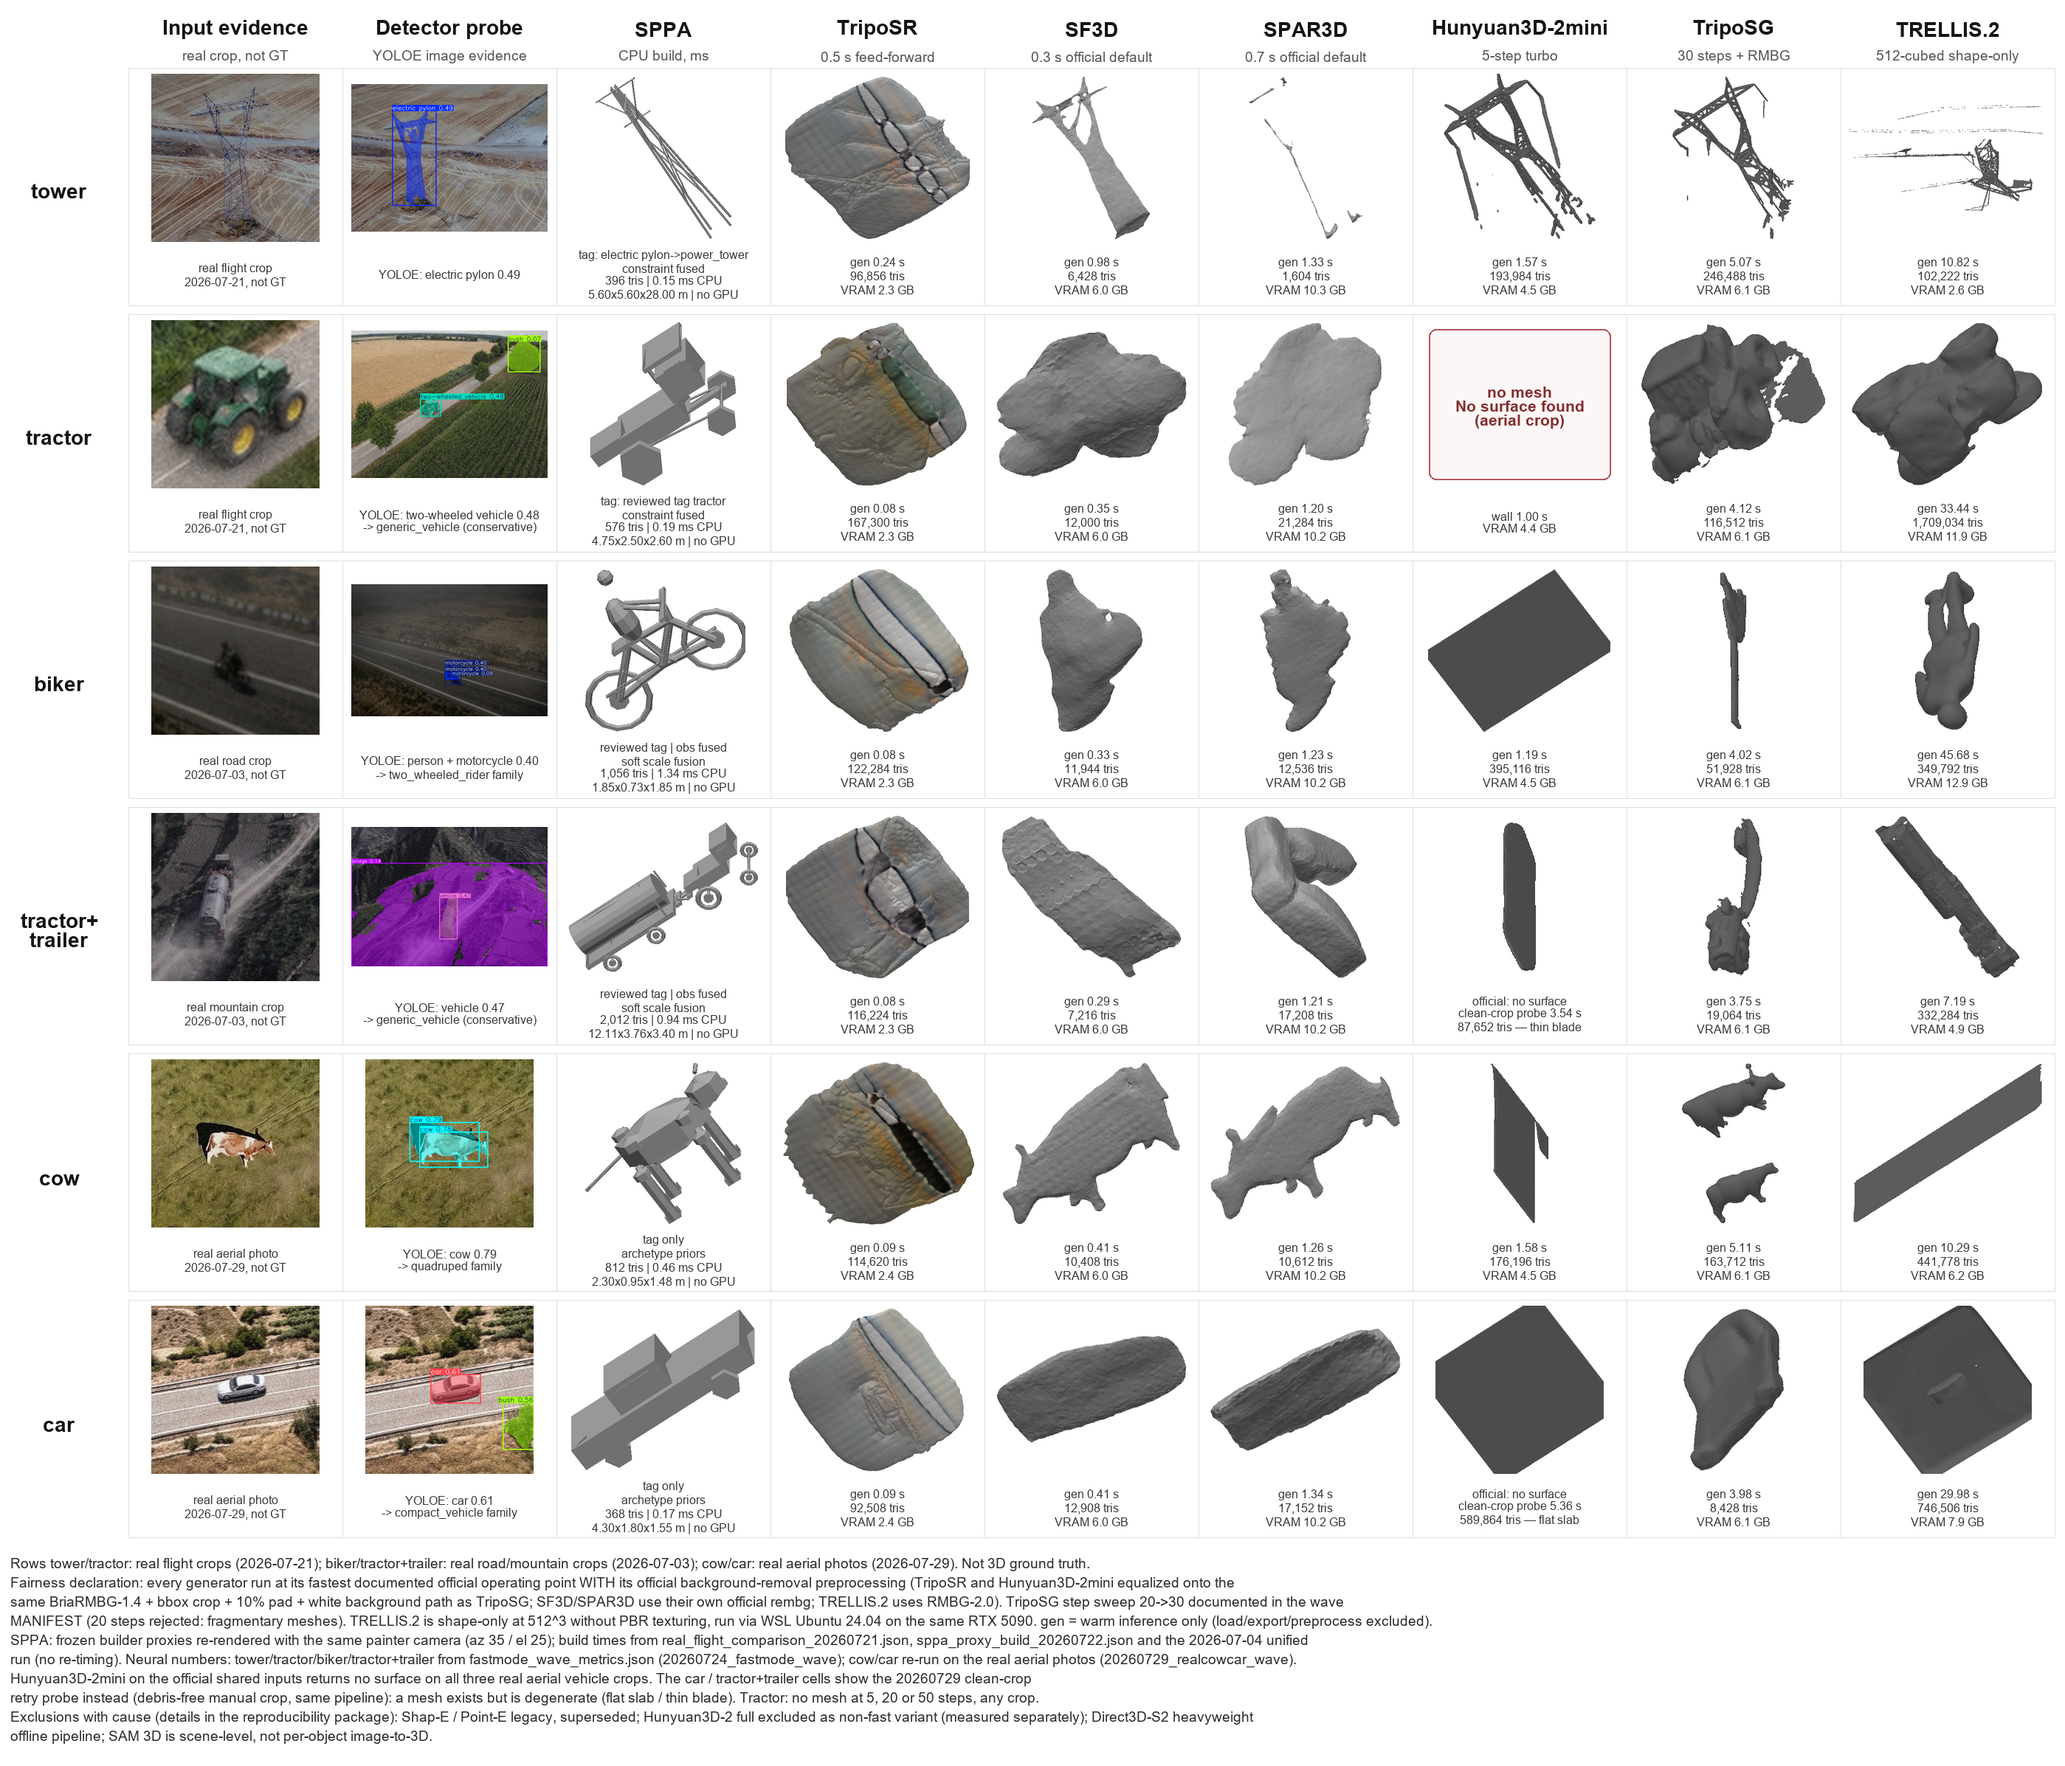
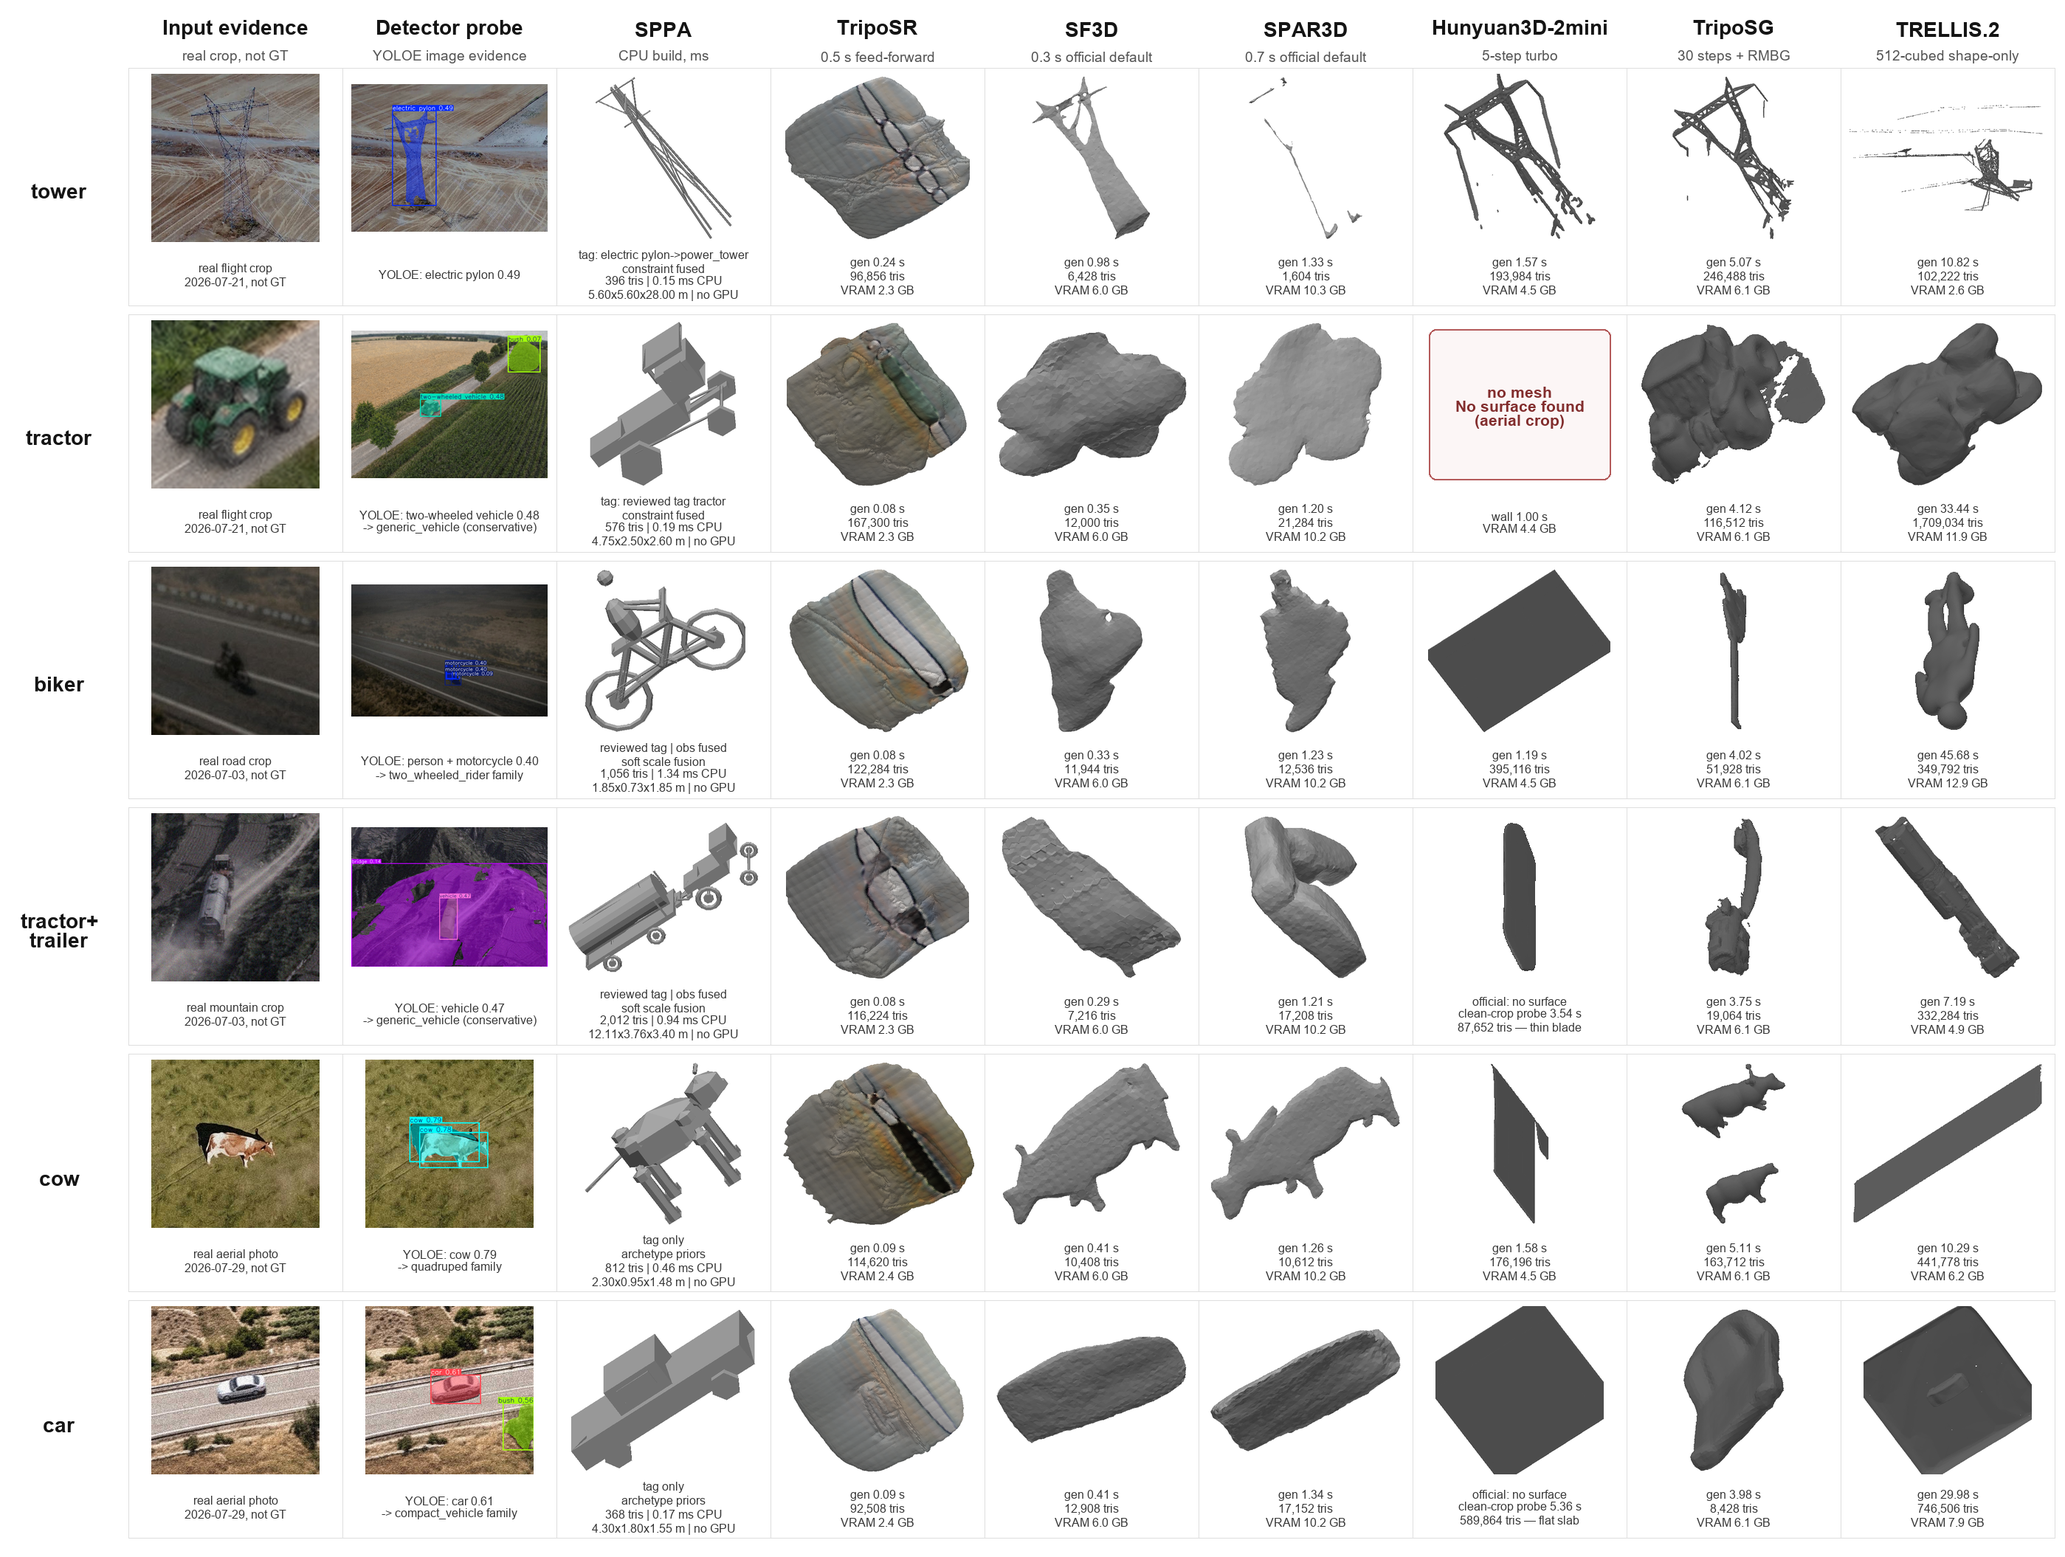
update

diff --git a/main.tex b/main.tex
@@ -82,9 +82,19 @@ on the same inputs, each at its fastest documented official operating point
 input crop, YOLOE-26s detector evidence, the compiled SPPA proxy (CPU,
 milliseconds, no GPU), and TripoSR, SF3D, SPAR3D, Hunyuan3D-2mini, TripoSG,
 and TRELLIS.2, each annotated with measured warm generation time, triangle
-count, and peak VRAM on the same RTX~5090 workstation. Neural columns are
-qualitative context, not a ranking; measured IoU comparisons are the sealed
-synthetic wave of Section~\ref{sec:neural-external-wave}.}
+count, and peak VRAM on the same RTX~5090 workstation. Rows tower/tractor
+are real flight crops (2026-07-21), biker/tractor+trailer real road and
+mountain crops (2026-07-03), and cow/car real aerial photos (2026-07-29).
+Aerial views defeat the neural columns in two distinct ways:
+plausible-but-wrong geometry (blobs, flat cards) or hard failure---on the
+official shared inputs Hunyuan3D-2mini returns no surface on all three
+aerial vehicle crops, so its car and tractor+trailer cells show the
+best-effort meshes of a debris-free manual-crop retry (same pipeline),
+which exist but are degenerate (flat slab, thin blade); the tractor cell
+reports the hard failure (no mesh at 5, 20, or 50 steps, on any crop).
+Neural columns are qualitative context, not a ranking; measured IoU
+comparisons are the sealed synthetic wave of
+Section~\ref{sec:neural-external-wave}.}
 \label{fig:real-flight-probes}
 \end{figure}
 
